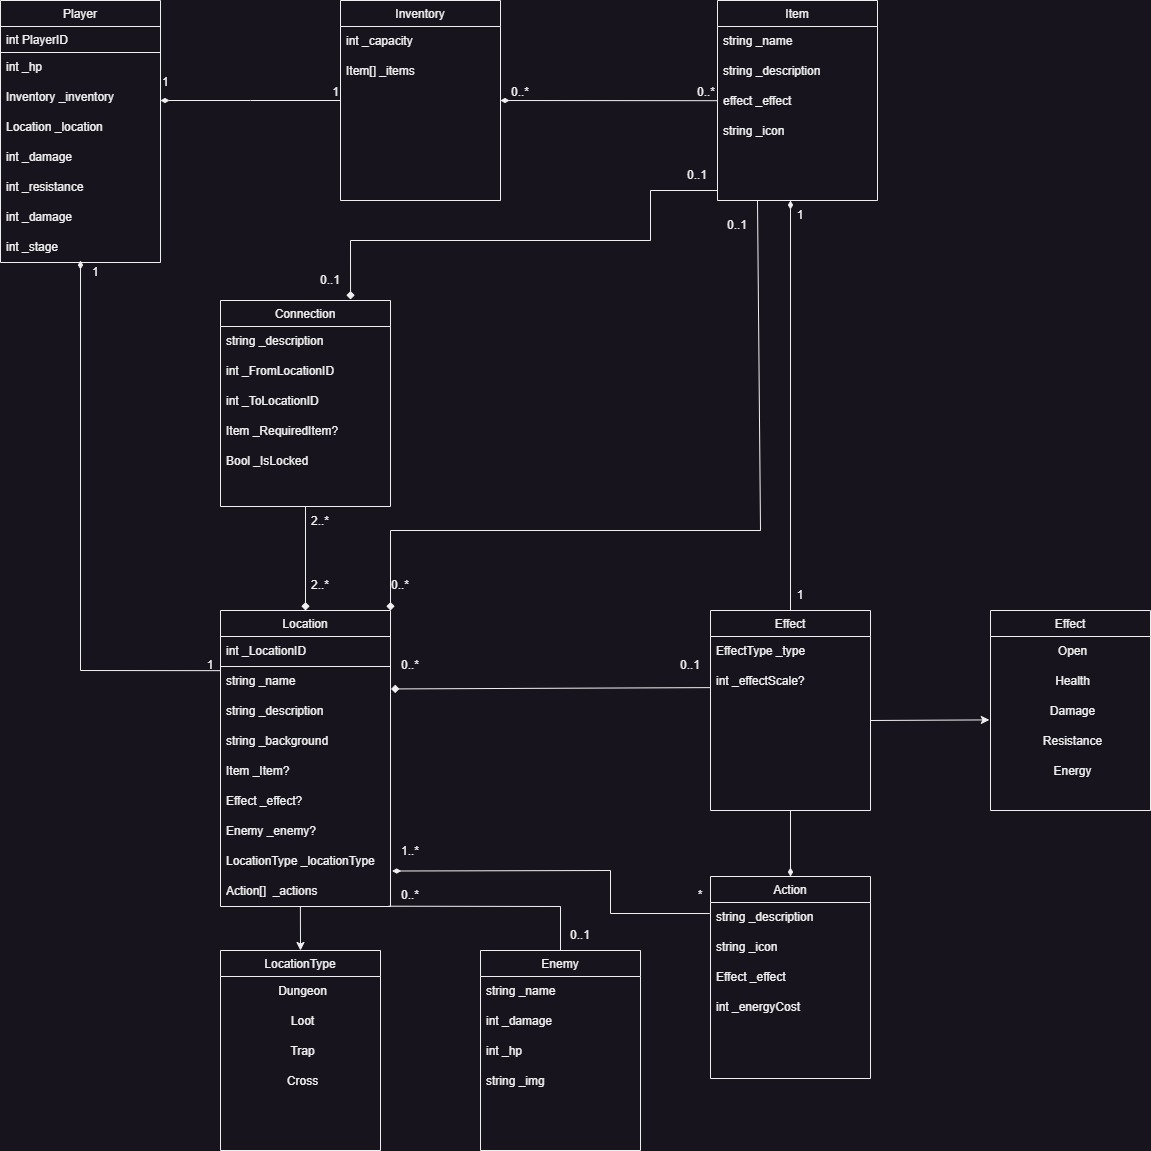
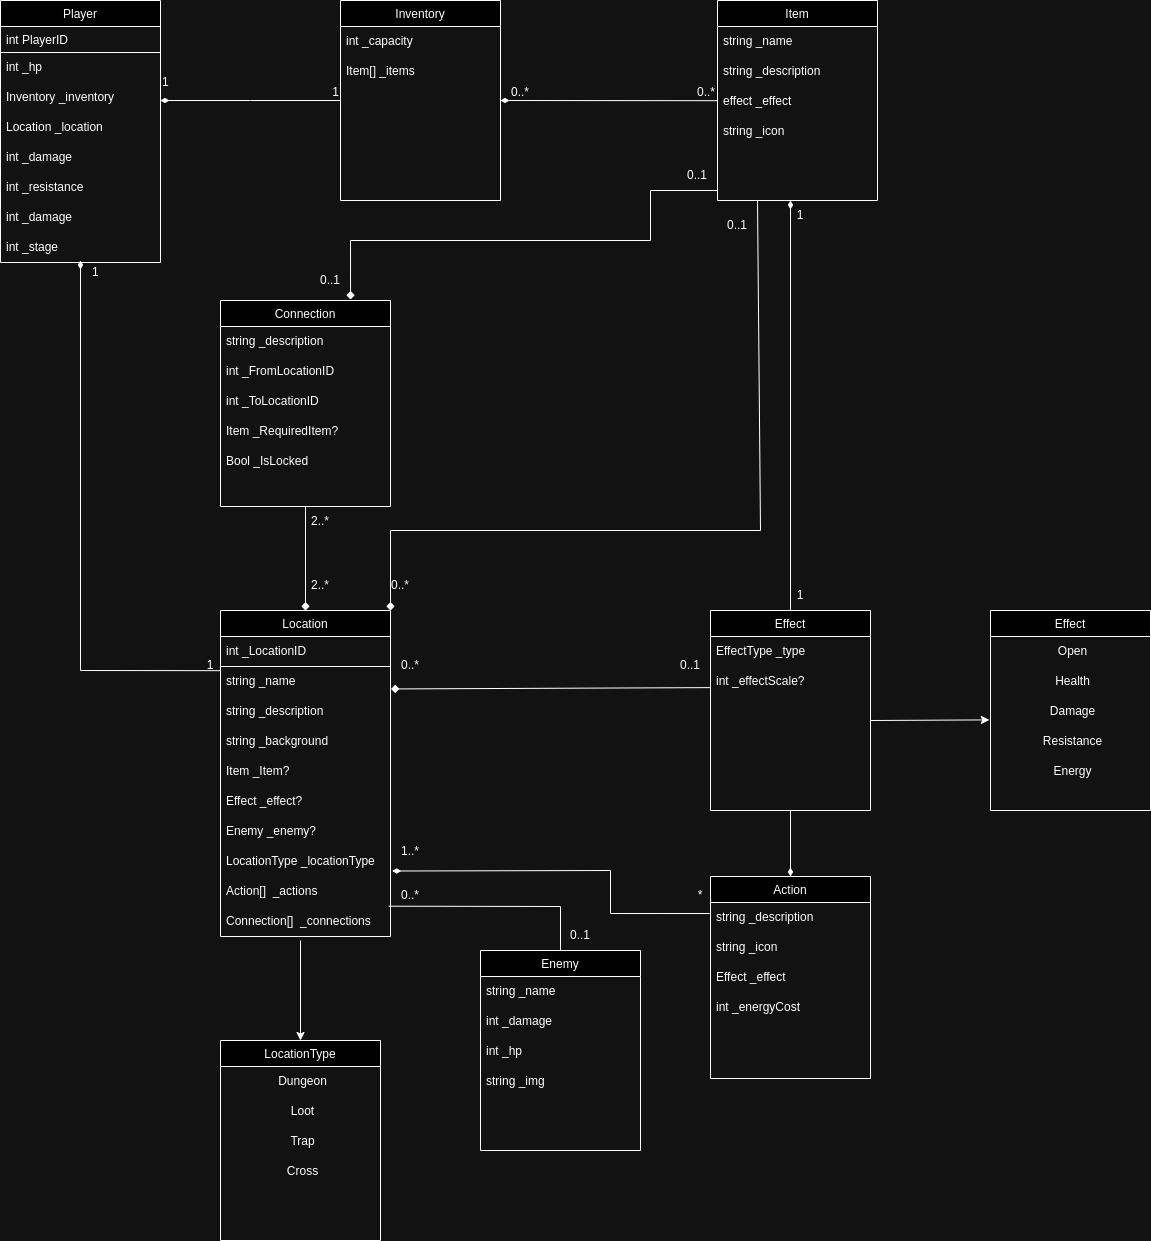
mechanika ověřování lokace?

diff --git a/README.md b/README.md
@@ -31,7 +31,7 @@
         Minimálné 1 místnost v podlaží bude náhodně generováná. Pohráváme si s myšlenkou, že by každá místnost mohla být sama o sobě náhodná a to tak, že bychom náhodně vybírali assety => musel by být min. pár assetů, protože ne každý enemy se bude hodit do každé místnosti
     </li>
     <li>Klíče budou sloužit k odemikání místností, nebo ke věcem v místnostech</li>
-    <li>LocationID by mohli být ve formátu nPodlaží|nMístnost, při cestování mezi místnostami budeme tedy ověřovat, pro přechod mezi podlažími bude jiné náhodně generováné id co hráč nebude znát</li>
+    <li>Každá lokace má pole connection, při přesunu budeme porovnávat zda id místnosti kam chceme jít je shodná s id _ToLocationID, id budou náhodná</li>
 </ul>
 
 ### Data
